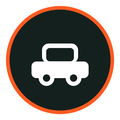
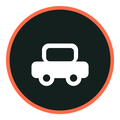
A paleta volta ao teal e ao coral da marca
Eu tinha trocado a paleta pelas cores medidas nas maquetas. O Simão
manteve a original, e é a decisão certa: o teal e o coral estão no
logótipo, nos pinos do mapa, nos gráficos da loja e no ícone da app.
Mudá-los na app deixava tudo o resto a falar outra língua.

Reposto o ficheiro de tema, o programa que desenha os pinos, as cores da
rota no mapa e os próprios pinos. Não revertido o commit inteiro, porque
ele também trazia as frases em tétum e inglês que o Simão escreveu.

O QUE FICA DO DESENHO NOVO: os 22 ícones, os degradés e a estrutura dos
ecrãs. Nada disso dependia da paleta — só das fichas de cor, que agora
apontam outra vez para o teal e o coral.

DOIS ACHADOS ao verificar os contrastes na paleta original, nenhum deles
introduzido por mim:

O texto secundário dava 4,35:1 sobre o creme, abaixo do mínimo de 4,5.
Passou a #68726C — três tons mais escuro, a mesma matiz, 4,54:1. É o
menor escurecimento que passa. Não é uma cor da marca: é o cinzento do
texto secundário, e texto tem de se ler.

Branco sobre o coral dá 2,82:1 — abaixo até do mínimo de 3,0 que o texto
grande permite. O painel de administração já usava texto escuro sobre
coral; fica agora escrito no tema, para a app não voltar a descobri-lo
sozinha.

Changed region(s): [[0.05, 0.05, 0.95, 0.95]]

diff --git a/mobile/src/components/MapaGoogle.js b/mobile/src/components/MapaGoogle.js
@@ -36,8 +36,8 @@ const DILI = { lat: -8.5569, lng: 125.5603 };
 // dois — e este comentário está aqui para que ninguém se esqueça do outro.
 const GOTA = 'M2 18 A16 16 0 1 1 34 18 C34 26 26 32 18 41 C10 32 2 26 2 18 Z';
 const COR = {
-  origem: { fill: '#05604A', risco: '#04402F' },
-  destino: { fill: '#E04A16', risco: '#8A2A0C' },
+  origem: { fill: '#0E5C54', risco: '#08403A' },
+  destino: { fill: '#E85531', risco: '#8C2E14' },
 };
 
 // O pino tem 30x45 no ecrã. O ponto que marca o sítio está em y=50 de 54 no
@@ -176,14 +176,14 @@ function metrosEntre(a, b) {
 function Mira() {
   return (
     <Svg width={22} height={22} viewBox="0 0 24 24">
-      <Bola cx={12} cy={12} r={6.5} fill="none" stroke="#05604A" strokeWidth={2} />
-      <Bola cx={12} cy={12} r={2} fill="#05604A" />
+      <Bola cx={12} cy={12} r={6.5} fill="none" stroke="#0E5C54" strokeWidth={2} />
+      <Bola cx={12} cy={12} r={2} fill="#0E5C54" />
       <Line
         x1={12}
         y1={1.5}
         x2={12}
         y2={5}
-        stroke="#05604A"
+        stroke="#0E5C54"
         strokeWidth={2}
         strokeLinecap="round"
       />
@@ -192,7 +192,7 @@ function Mira() {
         y1={19}
         x2={12}
         y2={22.5}
-        stroke="#05604A"
+        stroke="#0E5C54"
         strokeWidth={2}
         strokeLinecap="round"
       />
@@ -201,7 +201,7 @@ function Mira() {
         y1={12}
         x2={5}
         y2={12}
-        stroke="#05604A"
+        stroke="#0E5C54"
         strokeWidth={2}
         strokeLinecap="round"
       />
@@ -210,7 +210,7 @@ function Mira() {
         y1={12}
         x2={22.5}
         y2={12}
-        stroke="#05604A"
+        stroke="#0E5C54"
         strokeWidth={2}
         strokeLinecap="round"
       />
@@ -224,7 +224,7 @@ function Mira() {
 function Agulha() {
   return (
     <Svg width={20} height={20} viewBox="0 0 24 24">
-      <Path d="M12 2 L16.5 13 L12 11 Z" fill="#E04A16" />
+      <Path d="M12 2 L16.5 13 L12 11 Z" fill="#E85531" />
       <Path d="M12 22 L7.5 11 L12 13 Z" fill="#7C8A85" />
     </Svg>
   );
@@ -237,7 +237,7 @@ function Agulha() {
 // como o botão de seguir a bússola: é um MODO e não uma acção, e um modo tem
 // de se ver que está a correr.
 function Camadas({ activo }) {
-  const cor = activo ? '#FFFFFF' : '#05604A';
+  const cor = activo ? '#FFFFFF' : '#0E5C54';
   return (
     <Svg width={20} height={20} viewBox="0 0 24 24">
       <Path d="M12 3 L21 8 L12 13 L3 8 Z" fill={cor} />
@@ -265,7 +265,7 @@ function Camadas({ activo }) {
 // figura que o Google usa, e que se distingue da AGULHA da bússola: a agulha
 // diz onde é o norte, esta diz para onde EU estou virado.
 function Seta({ activo }) {
-  const cor = activo ? '#FFFFFF' : '#05604A';
+  const cor = activo ? '#FFFFFF' : '#0E5C54';
   return (
     <Svg width={20} height={20} viewBox="0 0 24 24">
       <Bola cx={12} cy={12} r={9.2} fill="none" stroke={cor} strokeWidth={1.8} />
@@ -962,7 +962,7 @@ export default function MapaGoogle({
           <Polyline
             key="recta"
             coordinates={rota.linha}
-            strokeColor="#05604A"
+            strokeColor="#0E5C54"
             strokeWidth={4}
             strokeOpacity={0.6}
             lineDashPattern={[8, 8]}
@@ -977,7 +977,7 @@ export default function MapaGoogle({
           <Polyline
             key="estrada-contorno"
             coordinates={rota.linha}
-            strokeColor="#04543F"
+            strokeColor="#0A463F"
             strokeWidth={10}
             lineCap="round"
             lineJoin="round"
@@ -995,7 +995,7 @@ export default function MapaGoogle({
           <Polyline
             key="estrada"
             coordinates={rota.linha}
-            strokeColor="#05604A"
+            strokeColor="#0E5C54"
             strokeWidth={6}
             lineCap="round"
             lineJoin="round"
@@ -1316,9 +1316,9 @@ const criarEstilos = () =>
     },
     // Um risco da cor à esquerda, para se saber qual é a recolha e qual é o
     // destino sem ter de olhar para o pino.
-    risco_origem: { borderLeftColor: '#05604A' },
-    risco_destino: { borderLeftColor: '#E04A16' },
-    cartaoAgora: { backgroundColor: '#14201D', borderLeftColor: '#FE5A22' },
+    risco_origem: { borderLeftColor: '#0E5C54' },
+    risco_destino: { borderLeftColor: '#E85531' },
+    cartaoAgora: { backgroundColor: '#14201D', borderLeftColor: '#FF6B4A' },
     cartaoNome: { fontSize: 12.5, fontWeight: '700', color: '#14201D', letterSpacing: -0.1 },
     cartaoNomeAgora: { color: '#EAF2EF' },
     cartaoDetalhe: { fontSize: 11, color: '#6A7671', marginTop: 1 },
@@ -1359,7 +1359,7 @@ const criarEstilos = () =>
     },
     nossoNome: {
       ...tipo.legenda,
-      color: '#05604A',
+      color: '#0E5C54',
       fontWeight: '700',
       textShadowColor: '#FFFFFF',
       textShadowOffset: { width: 0, height: 0 },

diff --git a/mobile/src/theme.js b/mobile/src/theme.js
@@ -11,56 +11,37 @@
 // ecrã branco a 100% no escuro cega quem conduz.
 
 export const PALETAS = {
-  // A PALETA VEIO DAS MAQUETAS, e foi MEDIDA e não escolhida a olho.
-  //
-  // O Simão trouxe quatro maquetas da app e pediu para as seguir com rigor.
-  // Em vez de aproximar as cores por semelhança, li os pixéis dos ficheiros:
-  // o fundo da página, os dois extremos de cada degradé, o verde dos ícones,
-  // as três cores de texto. Os valores abaixo são o que lá está.
-  //
-  // O QUE MUDOU MAIS não foi o verde — foi o FUNDO. Era um creme quente
-  // (#F7F4EF), escolhido quando a app não tinha maquetas; passa a um branco
-  // frio (#F2F6F9). É o que faz os cartões brancos destacarem-se em vez de
-  // se confundirem com a página, e é metade da razão pela qual as maquetas
-  // parecem mais limpas.
-  //
-  // O verde também se afastou do azul: #0E5C54 tinha um toque de turquesa,
-  // #05604A é verde puro. E ganhou um irmão claro (#049455) que a paleta
-  // antiga não tinha — é o verde dos ícones e dos valores em destaque, e sem
-  // ele tudo o que era "verde" tinha de ser o mesmo verde escuro.
   claro: {
-    teal: '#05604A',
-    tealDark: '#04543F',
-    // O VERDE CLARO É PARA ÍCONES, NÃO PARA TEXTO.
+    teal: '#0E5C54',
+    tealDark: '#0A463F',
+    tealLight: '#1C7A70',
+    // BRANCO NUNCA SOBRE ESTE CORAL, nem em texto grande.
     //
-    // Medido nas maquetas, onde pinta os ícones. Como texto sobre branco dá
-    // 3,91:1 — abaixo do mínimo de 4,5 —, e as maquetas até concordam: os
-    // valores em destaque ("1 min · 14:52") lá estão num verde bem mais
-    // escuro (#075942), não neste. Para texto verde usa-se `teal`, que dá
-    // 7,56:1. Um ícone é uma figura e basta-lhe 3:1; uma palavra tem de se
-    // ler.
-    tealLight: '#049455',
-    // BRANCO SOBRE ESTE LARANJA SÓ EM TEXTO GRANDE.
-    //
-    // Dá 3,13:1 — passa a regra do texto grande (>=18,66px a negrito, que é
-    // o caso do botão "Iniciar sessão" das maquetas) e falha a do texto
-    // normal, que exige 4,5. Num rótulo pequeno sobre laranja usa-se texto
-    // escuro, que dá 5,71:1.
-    coral: '#FE5A22',
-    coralDark: '#E04A16',
-    paper: '#F2F6F9',
+    // Dá 2,82:1 — abaixo até do mínimo de 3,0 que o texto grande permite. O
+    // painel de administração já sabia disto (usa texto escuro sobre o
+    // coral); fica escrito aqui para a app não voltar a descobri-lo sozinha.
+    // Texto escuro sobre coral dá 6,5:1.
+    coral: '#FF6B4A',
+    coralDark: '#E85531',
+    paper: '#F7F4EF',
 
     white: '#FFFFFF',
-    text: '#0B1E28',
-    textMuted: '#5D6979',
-    border: '#E4EAEE',
+    text: '#1C2421',
+    // TRÊS TONS MAIS ESCURO, e o cinzento é o mesmo.
+    //
+    // Estava em #6B756F e dava 4,35:1 sobre o creme — abaixo do mínimo de
+    // leitura de 4,5. Não era novo: vinha da paleta original, e passou
+    // despercebido porque 4,35 não parece mal a olho, parece só "cinzento".
+    // Este dá 4,54 e é o menor escurecimento que passa; a matiz não muda.
+    //
+    // Não é uma cor da marca — o teal e o coral ficam como estão. É o
+    // cinzento do texto secundário, e texto tem de se ler.
+    textMuted: '#68726C',
+    border: '#E2DDD4',
     inputBg: '#FFFFFF',
 
-    danger: '#CC2228',
-    // Mais escuro do que o verde dos ícones, pela mesma razão: `success`
-    // aparece quase sempre em PALAVRAS ("aprovado", "documento válido"), e o
-    // #049455 das maquetas não chega ao mínimo de leitura. Este dá 5,4:1.
-    success: '#077A48',
+    danger: '#C0392B',
+    success: '#2E7D5B',
     star: '#F4B400',
 
     onTeal: '#F2F8F6',
@@ -68,11 +49,11 @@ export const PALETAS = {
     // Tintes: painéis coloridos de fundo suave. Estavam escritos à mão
     // em catorze ficheiros, o que fazia deles o único sítio da app que
     // não sabia que existe um segundo tema.
-    tintaTeal: '#F1F7F5',
-    tintaCoral: '#FFF3EC',
-    tintaPerigo: '#FDECEC',
-    contornoCoral: '#F7DCCB',
-    contornoPerigo: '#F3CCCD',
+    tintaTeal: '#F0F5F4',
+    tintaCoral: '#FFF8F0',
+    tintaPerigo: '#FDECEA',
+    contornoCoral: '#F0E2CF',
+    contornoPerigo: '#F0CFCB',
   },
 
   // Escolhida pelo Simão: letras laranja, fundo preto, e o verde da marca

diff --git a/mobile/scripts/desenhar-pinos.py b/mobile/scripts/desenhar-pinos.py
@@ -34,8 +34,8 @@ TAMANHO = (30, 45)
 S = 30
 
 COR = {
-    'origem': ('#05604A', '#04402F'),
-    'destino': ('#E04A16', '#8A2A0C'),
+    'origem': ('#0E5C54', '#08403A'),
+    'destino': ('#E85531', '#8C2E14'),
 }
 
 
@@ -165,7 +165,7 @@ def desenhar(fill, risco):
 # — marca quem está a mexer-se.
 CARRO = 40
 FUNDO = '#14201D'
-REALCE = '#FE5A22'
+REALCE = '#FF6B4A'
 
 
 def desenhar_carro():
